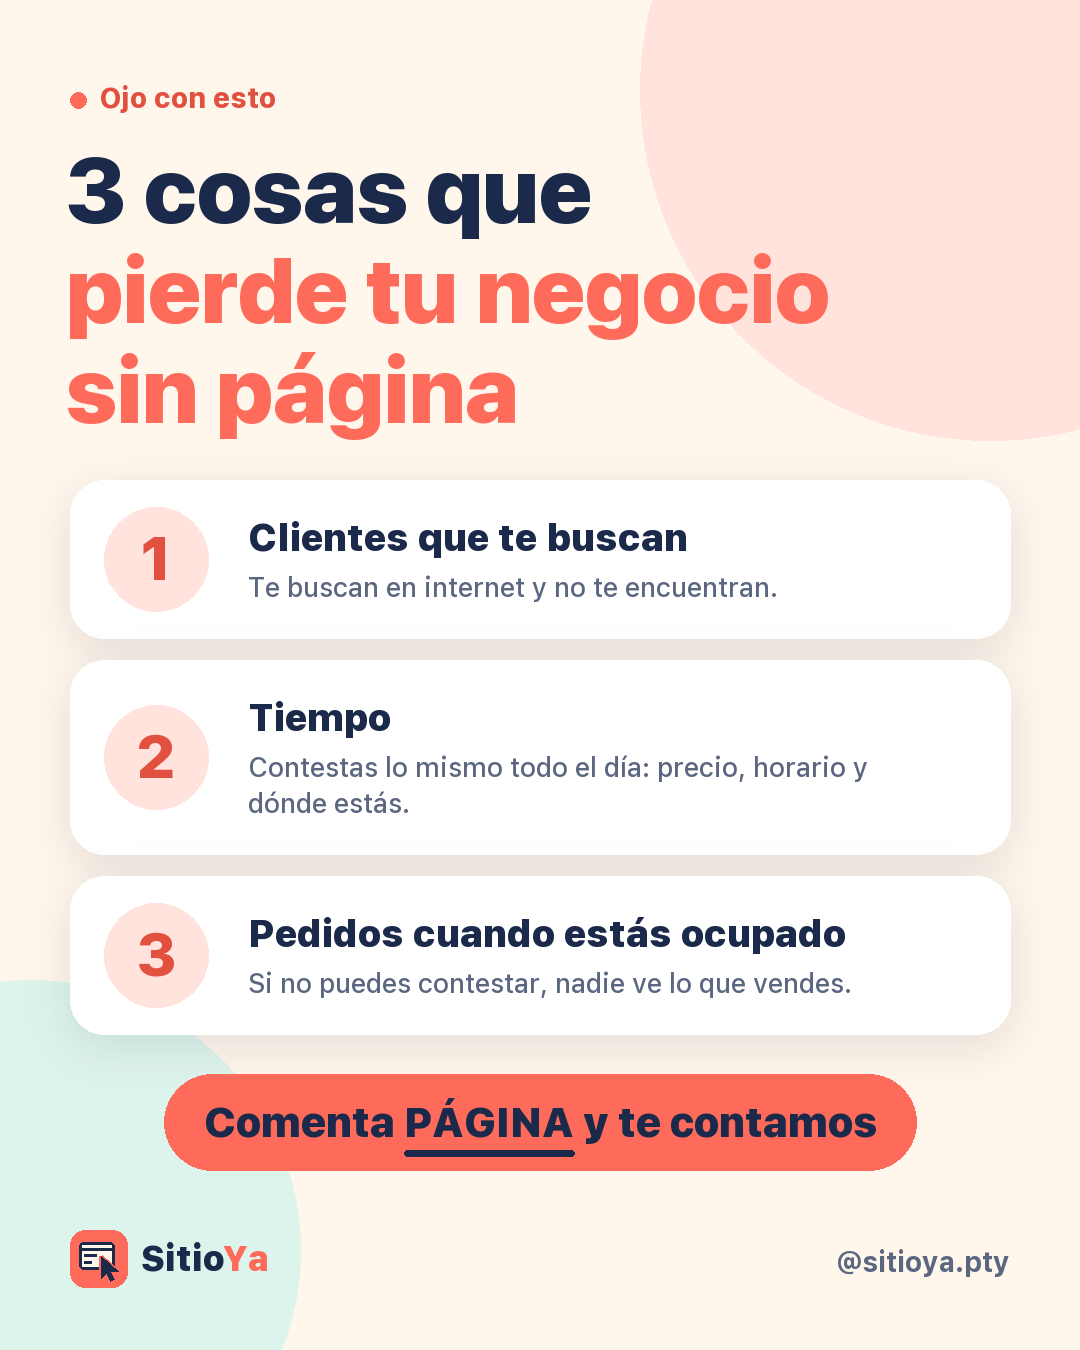
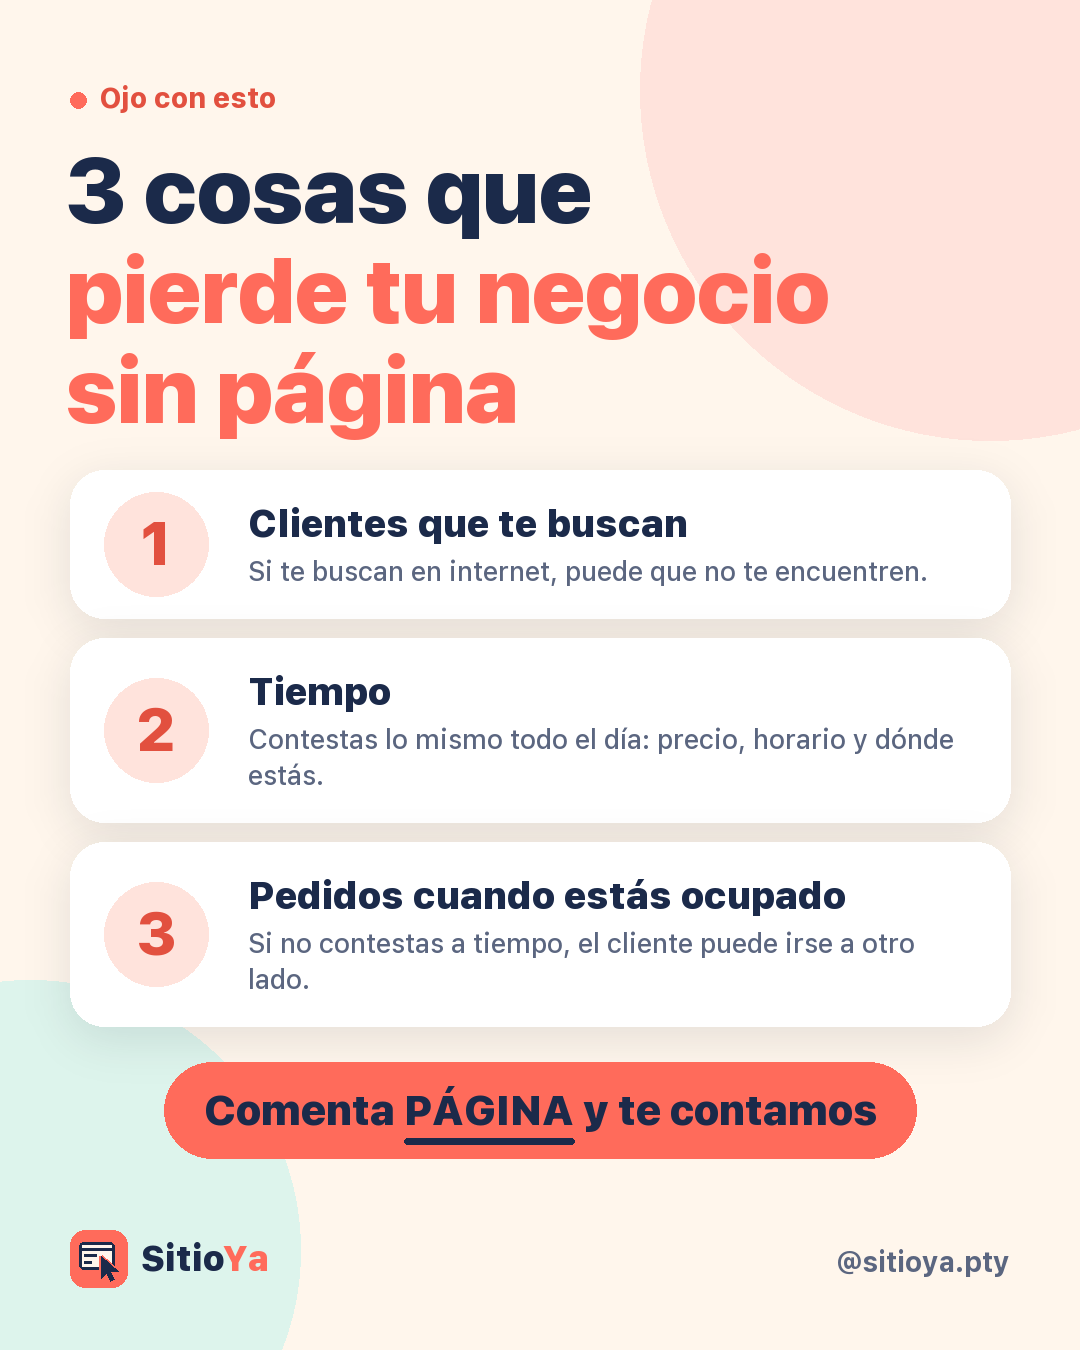
[Claude] Codex: post 10 sin frases absolutas y post 11 sin 'solo te ven los que usan la app' (ahora historias de 24 horas); caption del 11 ajustado

Changed region(s): [[0.0611, 0.3422, 0.9472, 0.8711]]

diff --git a/redes/posts/index.html b/redes/posts/index.html
@@ -11,7 +11,7 @@
 <figure><a href="8-precios.png" download><img src="8-precios.png" alt="Precios" loading="lazy"></a><figcaption><b>8. Precios</b><p>Precios claros: Básica $99, Completa $199 y Diseño único desde $369. Pagas una sola vez y el mantenimiento de $15/mes es opcional. Comenta PÁGINA y te contamos</p><a class="b" href="8-precios.png" download>Descargar</a></figcaption></figure>
 <figure><a href="9-siguenos.png" download><img src="9-siguenos.png" alt="Síguenos para más" loading="lazy"></a><figcaption><b>9. Síguenos para más</b><p>Síguenos para ver páginas de ejemplo, precios claros y tips para tu negocio. Hacemos páginas web para negocios en Panamá</p><a class="b" href="9-siguenos.png" download>Descargar</a></figcaption></figure>
 <figure><a href="10-tres-cosas-que-pierde-tu-negocio.png" download><img src="10-tres-cosas-que-pierde-tu-negocio.png" alt="3 cosas que pierde tu negocio sin página" loading="lazy"></a><figcaption><b>10. 3 cosas que pierde tu negocio sin página</b><p>3 cosas que pierde tu negocio sin página: clientes que te buscan, tiempo contestando lo mismo y pedidos cuando estás ocupado. Comenta PÁGINA y te contamos</p><a class="b" href="10-tres-cosas-que-pierde-tu-negocio.png" download>Descargar</a></figcaption></figure>
-<figure><a href="11-pagina-y-no-solo-instagram.png" download><img src="11-pagina-y-no-solo-instagram.png" alt="Por qué página y no solo Instagram" loading="lazy"></a><figcaption><b>11. Por qué página y no solo Instagram</b><p>Instagram para que te conozcan y tu página para que te compren: tus productos ordenados, tus precios y tu horario a la vista y un link que cualquiera abre. Comenta PÁGINA y te contamos</p><a class="b" href="11-pagina-y-no-solo-instagram.png" download>Descargar</a></figcaption></figure>
+<figure><a href="11-pagina-y-no-solo-instagram.png" download><img src="11-pagina-y-no-solo-instagram.png" alt="Por qué página y no solo Instagram" loading="lazy"></a><figcaption><b>11. Por qué página y no solo Instagram</b><p>Instagram para que te conozcan y tu página para que te compren: tus productos ordenados, tus precios y tu horario a la vista y todo siempre en el mismo lugar. Comenta PÁGINA y te contamos</p><a class="b" href="11-pagina-y-no-solo-instagram.png" download>Descargar</a></figcaption></figure>
 <figure><a href="12-ejemplo-gratis-de-tu-pagina.png" download><img src="12-ejemplo-gratis-de-tu-pagina.png" alt="Te armamos un ejemplo gratis de tu página" loading="lazy"></a><figcaption><b>12. Te armamos un ejemplo gratis de tu página</b><p>Te armamos un ejemplo gratis de tu página para que veas cómo quedaría tu negocio antes de decidir. Comenta PÁGINA y te contamos</p><a class="b" href="12-ejemplo-gratis-de-tu-pagina.png" download>Descargar</a></figcaption></figure>
 <figure><a href="/redes/ejemplo-heladeria/story-encuesta.png" download><img src="/redes/ejemplo-heladeria/story-encuesta.png" alt="Story: ¿Tu negocio tiene página web?" loading="lazy"></a><figcaption><b>Story: ¿Tu negocio tiene página web?</b><p>En el recuadro de arriba va el sticker de encuesta con la pregunta &quot;¿Tu negocio tiene página web?&quot; y las opciones Sí / No. En el recuadro de abajo va el sticker de mención @sitioya.pty.</p><a class="b" href="/redes/ejemplo-heladeria/story-encuesta.png" download>Descargar</a></figcaption></figure>
 </div></main></body></html>

diff --git a/tools/redes_posts.py b/tools/redes_posts.py
@@ -505,9 +505,9 @@ def post_vendes_instagram():
 # ---------- 10. 3 cosas que pierde tu negocio sin página ----------
 
 PIERDE = [
-    ('Clientes que te buscan', 'Te buscan en internet y no te encuentran.'),
+    ('Clientes que te buscan', 'Si te buscan en internet, puede que no te encuentren.'),
     ('Tiempo', 'Contestas lo mismo todo el día: precio, horario y dónde estás.'),
-    ('Pedidos cuando estás ocupado', 'Si no puedes contestar, nadie ve lo que vendes.'),
+    ('Pedidos cuando estás ocupado', 'Si no contestas a tiempo, el cliente puede irse a otro lado.'),
 ]
 
 
@@ -521,11 +521,11 @@ def post_pierde_sin_pagina():
     for i, (linea, c) in enumerate((('3 cosas que', NAVY), ('pierde tu negocio', CORAL), ('sin página', CORAL))):
         assert 66 + texto_ancho(d, linea, f) < 1030, linea
         d.text((66, 134 + i * 100), linea, font=f, fill=c)
-    y = 480
+    y = 470
     ft, fd = fuente(38, 900), fuente(27, 500)
     for n, (titulo, desc) in enumerate(PIERDE, 1):
-        ld = envolver(d, desc, fd, 700)
-        alto = 34 + 48 + 8 + len(ld) * 36 + 32
+        ld = envolver(d, desc, fd, 730)
+        alto = 30 + 48 + 6 + len(ld) * 36 + 28
         sombra(im, (70, y, 1010, y + alto), 34, desp=(0, 12), difuso=22, alfa=28)
         d = ImageDraw.Draw(im)
         d.rounded_rectangle((70, y, 1010, y + alto), 34, fill=BLANCO)
@@ -534,12 +534,12 @@ def post_pierde_sin_pagina():
         fnum = fuente(60, 900)
         s = str(n)
         d.text((156 - texto_ancho(d, s, fnum) / 2, cy - 38), s, font=fnum, fill=CORAL_D)
-        d.text((248, y + 34), titulo, font=ft, fill=NAVY)
-        ty = y + 34 + 48 + 8
+        d.text((248, y + 30), titulo, font=ft, fill=NAVY)
+        ty = y + 30 + 48 + 6
         for linea in ld:
             d.text((248, ty), linea, font=fd, fill=SOFT); ty += 36
-        y += alto + 22
-    fin = boton_pagina(d, y + 18)
+        y += alto + 20
+    fin = boton_pagina(d, y + 16)
     assert fin < 1200, fin
     pie_simple(im)
     return im
@@ -550,7 +550,7 @@ def post_pierde_sin_pagina():
 COMPARA = [
     ('Tus productos se pierden entre posts', 'Tus productos ordenados en un catálogo'),
     ('Te preguntan todo por mensaje', 'Precios, horario y ubicación a la vista'),
-    ('Solo te ven los que usan la app', 'Cualquiera abre tu link, sin cuenta'),
+    ('Lo importante se pierde en historias de 24 horas', 'Lo importante siempre en el mismo lugar'),
     ('Dependes de una sola red', 'Un lugar en internet que es tuyo'),
 ]
 
@@ -675,7 +675,7 @@ FEED = [
      'cuando estás ocupado. Comenta PÁGINA y te contamos'),
     ('11-pagina-y-no-solo-instagram.png', post_no_solo_instagram, 'Por qué página y no solo Instagram',
      'Instagram para que te conozcan y tu página para que te compren: tus productos ordenados, tus precios y tu '
-     'horario a la vista y un link que cualquiera abre. Comenta PÁGINA y te contamos'),
+     'horario a la vista y todo siempre en el mismo lugar. Comenta PÁGINA y te contamos'),
     ('12-ejemplo-gratis-de-tu-pagina.png', post_ejemplo_gratis, 'Te armamos un ejemplo gratis de tu página',
      'Te armamos un ejemplo gratis de tu página para que veas cómo quedaría tu negocio antes de decidir. '
      'Comenta PÁGINA y te contamos'),

diff --git a/redes/posts/LEEME.md b/redes/posts/LEEME.md
@@ -38,7 +38,7 @@ El número es el orden: se publica del 1 al 12. Los 10, 11 y 12 son extra y van 
    > 3 cosas que pierde tu negocio sin página: clientes que te buscan, tiempo contestando lo mismo y pedidos cuando estás ocupado. Comenta PÁGINA y te contamos
 
 11. `11-pagina-y-no-solo-instagram.png` · Por qué página y no solo Instagram
-   > Instagram para que te conozcan y tu página para que te compren: tus productos ordenados, tus precios y tu horario a la vista y un link que cualquiera abre. Comenta PÁGINA y te contamos
+   > Instagram para que te conozcan y tu página para que te compren: tus productos ordenados, tus precios y tu horario a la vista y todo siempre en el mismo lugar. Comenta PÁGINA y te contamos
 
 12. `12-ejemplo-gratis-de-tu-pagina.png` · Te armamos un ejemplo gratis de tu página
    > Te armamos un ejemplo gratis de tu página para que veas cómo quedaría tu negocio antes de decidir. Comenta PÁGINA y te contamos
